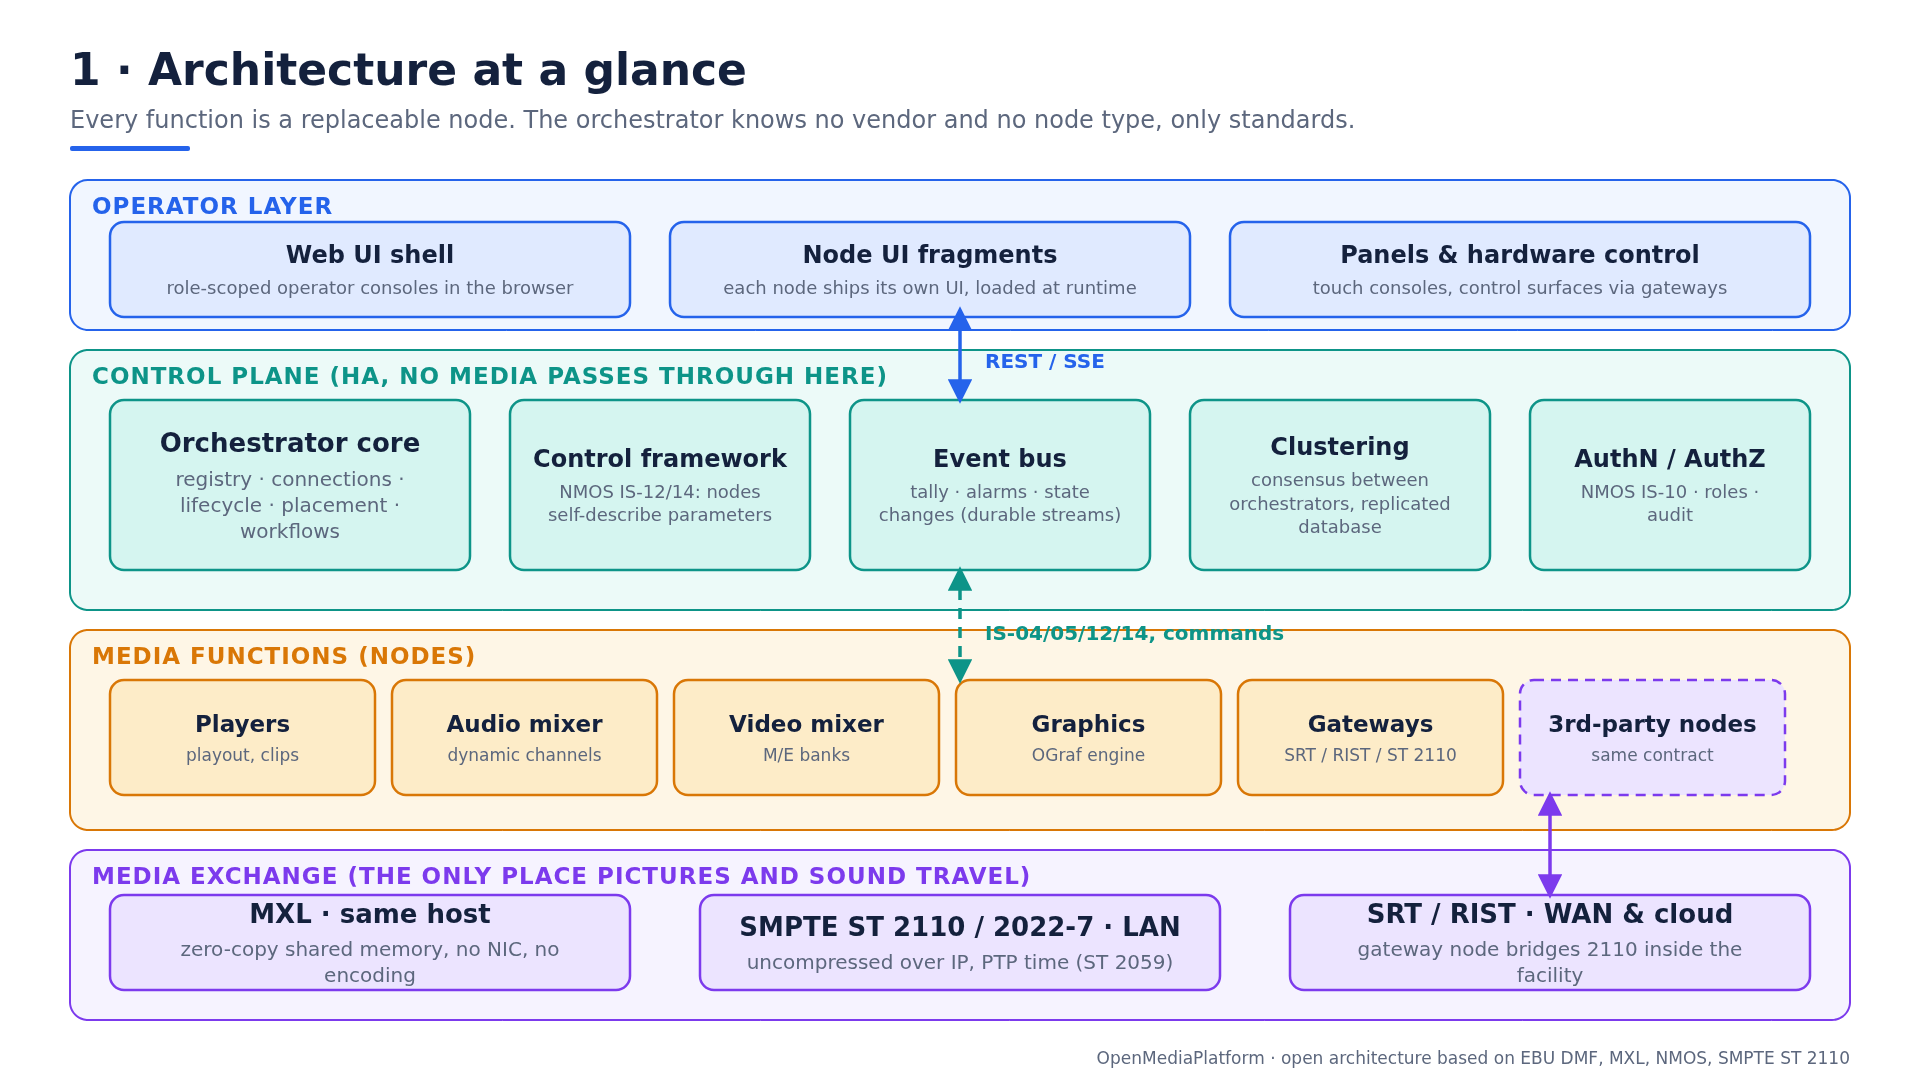
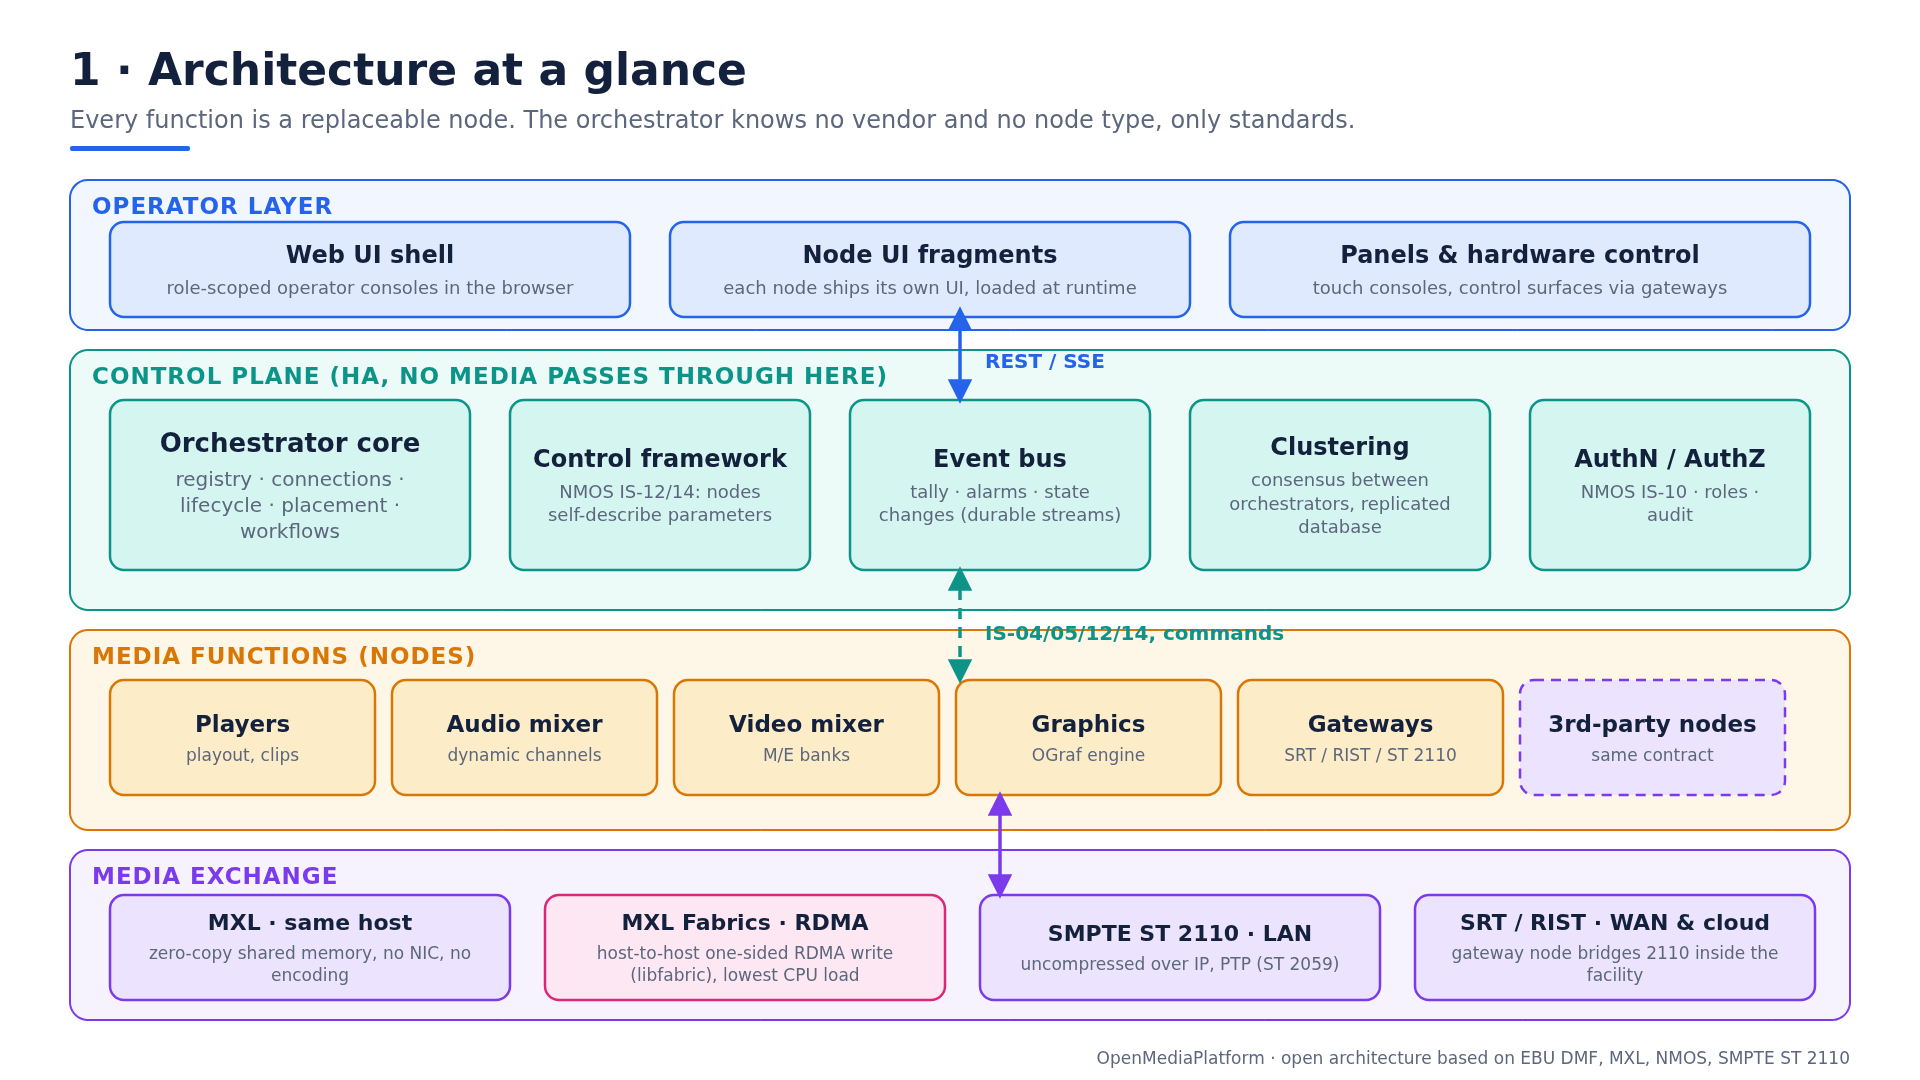
EBU-Diagramme: RDMA (MXL Fabrics) in Übersicht, Steuer-/Medienebene, Drittanbieter; neues Diagramm Medienpfad-Wahl

Changed region(s): [[0.0625, 0.7944, 0.9688, 0.9472], [0.7812, 0.7333, 0.8125, 0.7639], [0.5, 0.7333, 0.5312, 0.7639]]

diff --git a/docs/ebu-diagrams/generate.py b/docs/ebu-diagrams/generate.py
@@ -3,7 +3,7 @@ OUT=os.path.dirname(os.path.abspath(__file__))
 W,H=1920,1080
 C=dict(bg="#ffffff",ink="#14213d",mute="#5c677d",line="#9aa5b8",
  blue="#2563eb",blueL="#e0eaff",teal="#0d9488",tealL="#d5f5f0",amber="#d97706",amberL="#fdecc8",
- red="#dc2626",redL="#fde2e2",violet="#7c3aed",violetL="#ece4ff",grey="#eef1f6")
+ red="#dc2626",redL="#fde2e2",violet="#7c3aed",violetL="#ece4ff",pink="#db2777",pinkL="#fce7f3",grey="#eef1f6")
 def wrap(t,w,fs,k=0.56):
     n=max(8,int(w/(fs*k))); out=[]; cur=""
     for wd in t.split():
@@ -52,7 +52,7 @@ class S:
             s.e.append(f'<text x="{lx if lx is not None else (x1+x2)/2}" y="{ly if ly is not None else (y1+y2)/2-10}" text-anchor="middle" font-size="20" fill="{C[color]}" font-weight="600">{esc(label)}</text>')
     def save(s,name):
         defs="<defs>"
-        for k in ("ink","blue","teal","amber","red","violet","mute"):
+        for k in ("ink","blue","teal","amber","red","violet","mute","pink"):
             defs+=f'<marker id="a_{k}" viewBox="0 0 10 10" refX="8.5" refY="5" markerWidth="7" markerHeight="7" orient="auto-start-reverse"><path d="M0,0 L10,5 L0,10 z" fill="{C[k]}"/></marker>'
             defs+=f'<marker id="as_{k}" viewBox="0 0 10 10" refX="1.5" refY="5" markerWidth="7" markerHeight="7" orient="auto"><path d="M10,0 L0,5 L10,10 z" fill="{C[k]}"/></marker>'
         defs+="</defs>"
@@ -78,13 +78,15 @@ x=110
 for n,sb in names:
     s.box(x,680,265,115,n,"amberL" if n!="3rd-party nodes" else "violetL",stroke=None if n!="3rd-party nodes" else C["violet"],sub=sb,fs=23,dash=(n=="3rd-party nodes"))
     x+=282
-s.band(70,850,1780,170,"Media exchange (the only place pictures and sound travel)","violet")
-s.box(110,895,520,95,"MXL  ·  same host","violetL",sub="zero-copy shared memory, no NIC, no encoding",fs=26)
-s.box(700,895,520,95,"SMPTE ST 2110 / 2022-7  ·  LAN","violetL",sub="uncompressed over IP, PTP time (ST 2059)",fs=26)
-s.box(1290,895,520,95,"SRT / RIST  ·  WAN & cloud","violetL",sub="gateway node bridges 2110 inside the facility",fs=26)
+s.band(70,850,1780,170,"Media exchange","violet")
+bx=[(110,"MXL  ·  same host","zero-copy shared memory, no NIC, no encoding","violetL",C["violet"]),
+    (545,"MXL Fabrics  ·  RDMA","host-to-host one-sided RDMA write (libfabric), lowest CPU load","pinkL",C["pink"]),
+    (980,"SMPTE ST 2110  ·  LAN","uncompressed over IP, PTP (ST 2059)","violetL",C["violet"]),
+    (1415,"SRT / RIST  ·  WAN & cloud","gateway node bridges 2110 inside the facility","violetL",C["violet"])]
+for x0,t,sb,f,st in bx: s.box(x0,895,400,105,t,f,stroke=st,sub=sb,fs=22)
 s.arrow(960,310,960,400,"blue",both=True); s.arrow(960,570,960,680,"teal",both=True,dash=True)
 s.text(985,368,"REST / SSE",20,"blue",True); s.text(985,640,"IS-04/05/12/14, commands",20,"teal",True)
-s.arrow(1550,795,1550,895,"violet",both=True)
+s.arrow(1000,795,1000,895,"violet",both=True)
 s.save("1-architecture-overview")
 
 # ---------- 2: control plane vs media plane across hosts ----------
@@ -115,9 +117,16 @@ for i in range(3):
     x=70+i*600+450
     s.arrow(x,490,x,hy+55,"teal",dash=True,w=3)
 s.text(820,530,"commands + telemetry (dashed)",20,"teal",True,"middle")
-s.arrow(615,950,1215,950,"violet",both=True,w=6,label="SMPTE ST 2110 / 2022-7 between hosts",ly=935)
-s.arrow(1215,985,1815,985,"violet",both=True,w=6,dash=True,label="SRT / RIST over WAN",ly=1010)
-s.text(70,1010,"Solid violet = media.  Dashed teal = control.  Nothing in the teal layer ever carries media.",22,"mute")
+for gx0,gx1 in ((610,700),(1210,1270)):
+    pass
+s.arrow(615,hy+291,695,hy+291,"pink",both=True,w=3); s.text(655,hy+270,"RDMA",15,"pink",True,"middle")
+s.arrow(615,hy+311,695,hy+311,"violet",both=True,w=3)
+s.arrow(1215,hy+302,1265,hy+302,"violet",both=True,w=3,dash=True)
+ly0=935
+s.arrow(70,ly0,190,ly0,"pink",both=True,w=3); s.text(215,ly0+7,"MXL Fabrics: one-sided RDMA write between hosts (RoCEv2 / libfabric), for uncompressed UHD at minimal CPU cost",21,"ink")
+s.arrow(70,ly0+42,190,ly0+42,"violet",both=True,w=3); s.text(215,ly0+49,"SMPTE ST 2110 / 2022-7 over the LAN (PTP time)",21,"ink")
+s.arrow(70,ly0+84,190,ly0+84,"violet",both=True,w=3,dash=True); s.text(215,ly0+91,"SRT / RIST over WAN and to cloud hosts",21,"ink")
+s.text(1850,1030,"Dashed teal = control. Nothing in the teal layer ever carries media.",19,"mute",False,"end")
 s.save("2-control-vs-media-plane")
 
 # ---------- 3: resilience ----------
@@ -166,7 +175,7 @@ s.band(70,180,1000,520,"Third-party product","violet")
 s.box(110,235,920,95,"Product core, e.g. a software audio mixer or a vision engine","violetL",stroke=C["violet"],fs=24,dash=True)
 s.box(110,355,290,150,"1 · Register","violetL",stroke=C["violet"],sub="NMOS IS-04",fs=24)
 s.box(425,355,290,150,"2 · Describe","violetL",stroke=C["violet"],sub="NMOS IS-12/14",fs=24)
-s.box(740,355,290,150,"3 · Media I/O","violetL",stroke=C["violet"],sub="MXL flows / ST 2110",fs=24)
+s.box(740,355,290,150,"3 · Media I/O","violetL",stroke=C["violet"],sub="MXL, ST 2110, optional RDMA",fs=24)
 s.box(110,540,920,125,"Optional: UI bundle + manifest","violetL",stroke=C["violet"],fs=24,sub="orchestrator loads it into the operator console")
 s.band(1130,180,720,520,"OpenMediaPlatform","teal")
 s.box(1170,235,640,95,"Orchestrator","tealL",fs=26,sub="discovers, connects, monitors, places")
@@ -193,7 +202,7 @@ s.box(70,190,540,230,"Today: appliance chain","redL",stroke=C["red"],fs=30,sub="
 
 s.arrow(620,305,780,305,"ink",w=6)
 s.box(790,190,1060,230,"Dynamic media facility","tealL",stroke=C["teal"],fs=30,sub="functions start where capacity exists; media is shared on the same host or over IP; one control model for all; redundancy by software where it matters")
-cols=[("Open exchange","MXL + ST 2110: any compliant function can connect to any other","violet"),
+cols=[("Open exchange","MXL, ST 2110 and RDMA fabrics: any compliant function can connect to any other","violet"),
       ("Self-describing nodes","IS-04 / IS-12/14: no per-vendor control code, no orchestrator release","teal"),
       ("Replaceable parts","swap or add a function without touching the rest; no lock-in","blue"),
       ("Elastic resources","place, move and scale across on-prem and cloud hosts","amber")]
@@ -208,3 +217,27 @@ s.box(970,710,880,290,"","grey",stroke=C["line"]); s.text(1000,760,"For vendors"
 for k,t in enumerate(["• One integration surface instead of one per customer","• Sell the function (software), not only the box","• Start at Level A, move up to Level C when ready","• Compete on quality of the function, not on lock-in"]):
     s.text(1000,815+k*46,t,23,"ink")
 s.save("6-why-open-contract")
+
+# ---------- 7: media path selection ----------
+s=S("7 · Choosing the media path between two functions","One rule set, applied automatically at placement time. The signal is never lost: acceleration is optional, a fallback always exists.")
+s.box(70,190,420,120,"Two functions\nneed to exchange media".split("\n")[0],"grey",stroke=C["ink"],sub="two functions need to exchange media",fs=28)
+q=[(560,"Same host?","yes","MXL shared memory","zero-copy, no NIC, no encoding","violet"),
+   (560,"Same RDMA-capable fabric segment?","yes","MXL Fabrics over RDMA","RoCEv2 / EFA, one-sided write, lowest CPU load; reserved like an I/O card","pink"),
+   (560,"Same LAN with multicast and PTP?","yes","SMPTE ST 2110 / 2022-7","uncompressed, PTP time, redundant paths","violet"),
+   (560,"Otherwise (WAN, cloud, no multicast)","","SRT / RIST via gateway node","unicast, FEC; 2110 stays inside the facility","amber")]
+y=200
+for i,(x0,qq,yn,res,sb,col) in enumerate(q):
+    yy=190+i*190
+    s.box(560,yy,520,120,qq,"grey",stroke=C["ink"],fs=26)
+    s.box(1280,yy,570,120,res,col+"L",stroke=C[col],sub=sb,fs=26)
+    s.arrow(1080,yy+60,1280,yy+60,col,w=5,label=(yn or "else"),ly=yy+48)
+    if i<3:
+        s.arrow(820,yy+120,820,yy+190,"ink",w=4); s.text(840,yy+162,"no",21,"mute",True)
+s.arrow(490,250,560,250,"ink",w=4)
+s.box(70,350,420,330,"","blueL",stroke=C["blue"])
+s.text(280,395,"Fallback is soft",26,"ink",True,"middle")
+s.para(280,435,380,"If an accelerated path cannot be provided at placement time, the connection falls back to the next option automatically, with an advisory. The programme is never stopped for lack of acceleration.",21)
+s.box(70,710,420,250,"","grey",stroke=C["line"])
+s.text(280,752,"Status",24,"ink",True,"middle")
+s.para(280,790,380,"RDMA path implemented on the libfabric software provider and verified end to end. Validation on RoCEv2 hardware is planned.",20,"mute")
+s.save("7-media-path-selection")
